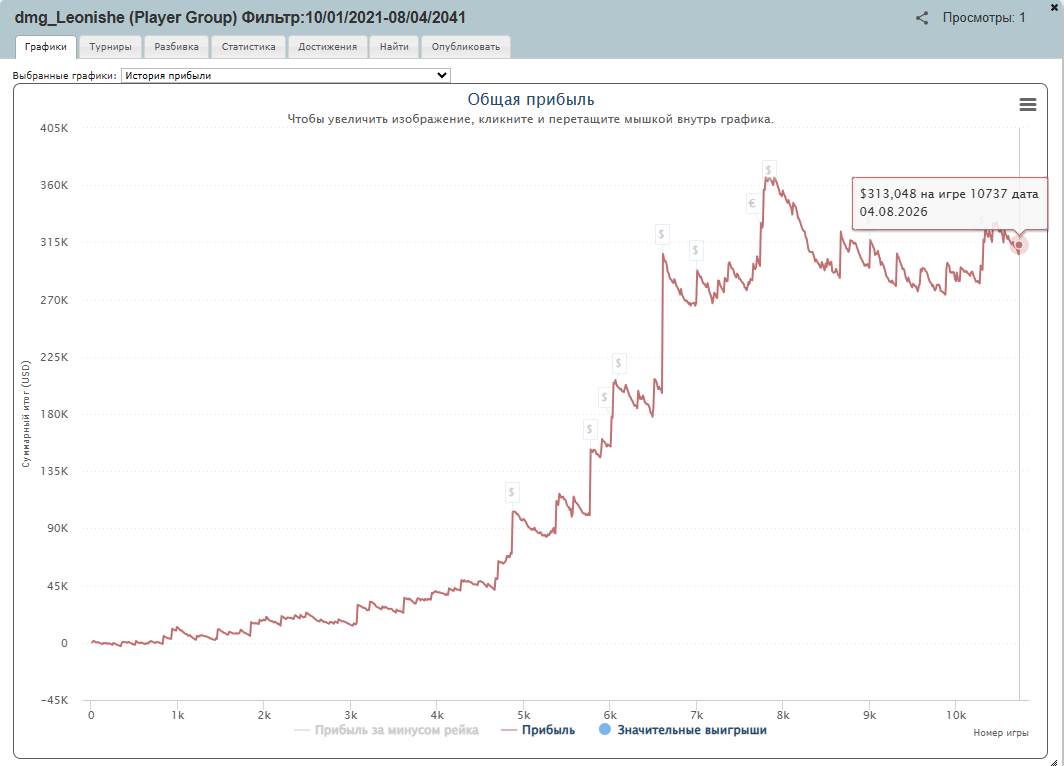
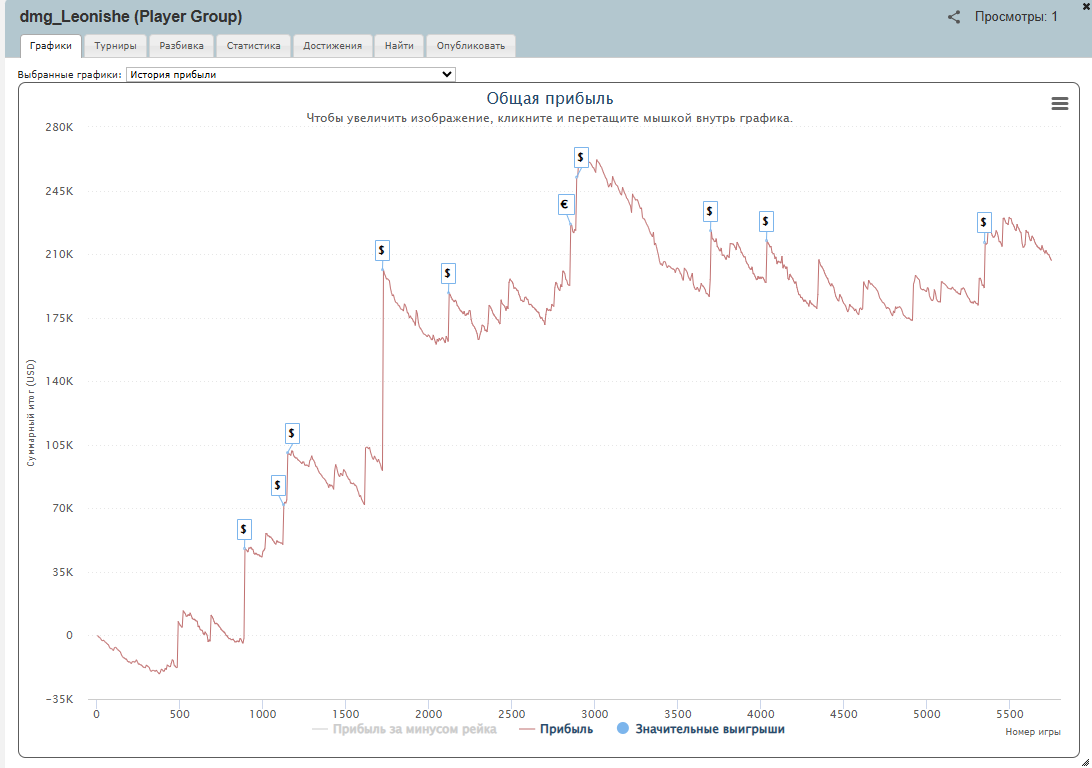
Add files via upload

diff --git a/club/index.html b/club/index.html
@@ -526,6 +526,13 @@ html{scrollbar-color:#3a332c var(--ink);scrollbar-width:auto}
 .get p{font-size:.89rem;color:var(--cream-dim);margin:0}
 
 [id]{scroll-margin-top:84px}
+
+/* ---------- воздух под последним блоком (панель браузера на телефоне) ---------- */
+body{padding-bottom:clamp(2.5rem,8vw,4rem)}
+@media(max-width:700px){body{padding-bottom:6rem}}
+/* коробка без скидки не должна выглядеть пустым полем ввода */
+.tier-next.flat,.tier-next.plain{border-color:var(--line)}
+.tier-next.plain i{color:#6f6a62}
 </style>
 <script>document.documentElement.className+=" js"</script>
 </head>
@@ -609,7 +616,7 @@ html{scrollbar-color:#3a332c var(--ink);scrollbar-width:auto}
       <div class="tier-nm">Base</div>
       <div class="tier-for">Если только выстраиваешь свою игру и учишься сам.</div>
       <div class="tier-pr"><b id="b-mo">$35</b><span>в месяц</span></div>
-      <div class="tier-next" id="b-total"><i>оплата помесячно</i></div>
+      <div class="tier-next plain" id="b-total"><i>оплата помесячно</i></div>
       <ul class="ticks">
         <li>Чат комьюнити</li>
         <li>Видео по основам покера</li>
@@ -624,7 +631,7 @@ html{scrollbar-color:#3a332c var(--ink);scrollbar-width:auto}
       <div class="tier-nm">Pro</div>
       <div class="tier-for">Если играешь регулярно и работаешь над игрой всерьёз.</div>
       <div class="tier-pr"><b id="p-mo">$100</b><span>в месяц</span></div>
-      <div class="tier-next" id="p-total"><i>оплата помесячно</i></div>
+      <div class="tier-next plain" id="p-total"><i>оплата помесячно</i></div>
       <ul class="ticks">
         <li>Всё из Base</li>
         <li>Закрытые стримы работы над игрой</li>
@@ -639,7 +646,7 @@ html{scrollbar-color:#3a332c var(--ink);scrollbar-width:auto}
       <div class="tier-nm">VIP</div>
       <div class="tier-for">Если хочешь работать со мной напрямую.</div>
       <div class="tier-pr"><b id="v-mo">$500</b><span>в месяц</span></div>
-      <div class="tier-next" id="v-total"><i>оплата помесячно</i></div>
+      <div class="tier-next plain" id="v-total"><i>оплата помесячно</i></div>
       <ul class="ticks">
         <li>Всё из Pro</li>
         <li>Разбор базы</li>
@@ -742,7 +749,9 @@ html{scrollbar-color:#3a332c var(--ink);scrollbar-width:auto}
     Object.keys(base).forEach(function(k){
       var mo = Math.round(base[k] * (1 - off / 100));
       document.getElementById(k + '-mo').textContent = money(mo);
-      document.getElementById(k + '-total').innerHTML = months === 1
+      var box = document.getElementById(k + '-total');
+      box.classList.toggle('plain', months === 1);
+      box.innerHTML = months === 1
         ? '<i>оплата помесячно</i>'
         : '<i>' + months + ' мес</i><b>' + money(mo * months) + '</b>';
       document.getElementById(k + '-cta').href =

diff --git a/index.html b/index.html
@@ -4,7 +4,7 @@
 <meta charset="utf-8">
 <meta name="viewport" content="width=device-width, initial-scale=1">
 <title>EQLBM.CLUB — Безопасное пространство для развития покерной карьеры</title>
-<meta name="description" content="Комьюнити, которое помогает играть лучше. За твоё обучение платит рум. От тебя — регистрация в румах через EQLBM. Весь твой профит всегда остаётся твоим.">
+<meta name="description" content="Обучение как в школе покера: тренировки по темам, разбор твоей игры и стримы работы над игрой. Оплата — месячная подписка, весь профит ты забираешь себе.">
 <link rel="icon" href="/assets/favicon.ico" sizes="any">
 <link rel="icon" type="image/png" sizes="32x32" href="/assets/favicon-32.png">
 <link rel="icon" type="image/png" sizes="16x16" href="/assets/favicon-16.png">
@@ -12,7 +12,7 @@
 <meta property="og:type" content="website">
 <meta property="og:site_name" content="EQLBM.CLUB">
 <meta property="og:title" content="EQLBM.CLUB — Безопасное пространство для развития покерной карьеры">
-<meta property="og:description" content="Комьюнити, которое помогает играть лучше. За твоё обучение платит рум. От тебя — регистрация в румах через EQLBM. Весь твой профит всегда остаётся твоим.">
+<meta property="og:description" content="Обучение как в школе покера: тренировки по темам, разбор твоей игры и стримы работы над игрой. Оплата — месячная подписка, весь профит ты забираешь себе.">
 <meta property="og:image" content="https://eqlbm.club/assets/og.png">
 <meta property="og:url" content="https://eqlbm.club/">
 <meta property="og:locale" content="ru_RU">
@@ -528,6 +528,13 @@ html{scrollbar-color:#3a332c var(--ink);scrollbar-width:auto}
 ::-webkit-scrollbar-track{background:var(--ink)}
 ::-webkit-scrollbar-thumb{background:#3a332c;border-radius:6px;border:3px solid var(--ink)}
 ::-webkit-scrollbar-thumb:hover{background:#5a5048}
+
+/* ---------- воздух под последним блоком (панель браузера на телефоне) ---------- */
+body{padding-bottom:clamp(2.5rem,8vw,4rem)}
+@media(max-width:700px){body{padding-bottom:6rem}}
+/* коробка без скидки не должна выглядеть пустым полем ввода */
+.tier-next.flat,.tier-next.plain{border-color:var(--line)}
+.tier-next.plain i{color:#6f6a62}
 </style>
 <script>document.documentElement.className+=" js"</script>
 </head>

diff --git a/rooms/acr/index.html b/rooms/acr/index.html
@@ -495,6 +495,13 @@ html{scrollbar-color:#3a332c var(--ink);scrollbar-width:auto}
 ::-webkit-scrollbar-track{background:var(--ink)}
 ::-webkit-scrollbar-thumb{background:#3a332c;border-radius:6px;border:3px solid var(--ink)}
 ::-webkit-scrollbar-thumb:hover{background:#5a5048}
+
+/* ---------- воздух под последним блоком (панель браузера на телефоне) ---------- */
+body{padding-bottom:clamp(2.5rem,8vw,4rem)}
+@media(max-width:700px){body{padding-bottom:6rem}}
+/* коробка без скидки не должна выглядеть пустым полем ввода */
+.tier-next.flat,.tier-next.plain{border-color:var(--line)}
+.tier-next.plain i{color:#6f6a62}
 </style>
 <script>document.documentElement.className+=" js"</script>
 </head>

diff --git a/rooms/bcpoker/index.html b/rooms/bcpoker/index.html
@@ -495,6 +495,13 @@ html{scrollbar-color:#3a332c var(--ink);scrollbar-width:auto}
 ::-webkit-scrollbar-track{background:var(--ink)}
 ::-webkit-scrollbar-thumb{background:#3a332c;border-radius:6px;border:3px solid var(--ink)}
 ::-webkit-scrollbar-thumb:hover{background:#5a5048}
+
+/* ---------- воздух под последним блоком (панель браузера на телефоне) ---------- */
+body{padding-bottom:clamp(2.5rem,8vw,4rem)}
+@media(max-width:700px){body{padding-bottom:6rem}}
+/* коробка без скидки не должна выглядеть пустым полем ввода */
+.tier-next.flat,.tier-next.plain{border-color:var(--line)}
+.tier-next.plain i{color:#6f6a62}
 </style>
 <script>document.documentElement.className+=" js"</script>
 </head>

diff --git a/rooms/betonline/index.html b/rooms/betonline/index.html
@@ -495,6 +495,13 @@ html{scrollbar-color:#3a332c var(--ink);scrollbar-width:auto}
 ::-webkit-scrollbar-track{background:var(--ink)}
 ::-webkit-scrollbar-thumb{background:#3a332c;border-radius:6px;border:3px solid var(--ink)}
 ::-webkit-scrollbar-thumb:hover{background:#5a5048}
+
+/* ---------- воздух под последним блоком (панель браузера на телефоне) ---------- */
+body{padding-bottom:clamp(2.5rem,8vw,4rem)}
+@media(max-width:700px){body{padding-bottom:6rem}}
+/* коробка без скидки не должна выглядеть пустым полем ввода */
+.tier-next.flat,.tier-next.plain{border-color:var(--line)}
+.tier-next.plain i{color:#6f6a62}
 </style>
 <script>document.documentElement.className+=" js"</script>
 </head>

diff --git a/rooms/blackchip/index.html b/rooms/blackchip/index.html
@@ -495,6 +495,13 @@ html{scrollbar-color:#3a332c var(--ink);scrollbar-width:auto}
 ::-webkit-scrollbar-track{background:var(--ink)}
 ::-webkit-scrollbar-thumb{background:#3a332c;border-radius:6px;border:3px solid var(--ink)}
 ::-webkit-scrollbar-thumb:hover{background:#5a5048}
+
+/* ---------- воздух под последним блоком (панель браузера на телефоне) ---------- */
+body{padding-bottom:clamp(2.5rem,8vw,4rem)}
+@media(max-width:700px){body{padding-bottom:6rem}}
+/* коробка без скидки не должна выглядеть пустым полем ввода */
+.tier-next.flat,.tier-next.plain{border-color:var(--line)}
+.tier-next.plain i{color:#6f6a62}
 </style>
 <script>document.documentElement.className+=" js"</script>
 </head>

diff --git a/rooms/champion/index.html b/rooms/champion/index.html
@@ -495,6 +495,13 @@ html{scrollbar-color:#3a332c var(--ink);scrollbar-width:auto}
 ::-webkit-scrollbar-track{background:var(--ink)}
 ::-webkit-scrollbar-thumb{background:#3a332c;border-radius:6px;border:3px solid var(--ink)}
 ::-webkit-scrollbar-thumb:hover{background:#5a5048}
+
+/* ---------- воздух под последним блоком (панель браузера на телефоне) ---------- */
+body{padding-bottom:clamp(2.5rem,8vw,4rem)}
+@media(max-width:700px){body{padding-bottom:6rem}}
+/* коробка без скидки не должна выглядеть пустым полем ввода */
+.tier-next.flat,.tier-next.plain{border-color:var(--line)}
+.tier-next.plain i{color:#6f6a62}
 </style>
 <script>document.documentElement.className+=" js"</script>
 </head>

diff --git a/rooms/coinpoker/index.html b/rooms/coinpoker/index.html
@@ -495,6 +495,13 @@ html{scrollbar-color:#3a332c var(--ink);scrollbar-width:auto}
 ::-webkit-scrollbar-track{background:var(--ink)}
 ::-webkit-scrollbar-thumb{background:#3a332c;border-radius:6px;border:3px solid var(--ink)}
 ::-webkit-scrollbar-thumb:hover{background:#5a5048}
+
+/* ---------- воздух под последним блоком (панель браузера на телефоне) ---------- */
+body{padding-bottom:clamp(2.5rem,8vw,4rem)}
+@media(max-width:700px){body{padding-bottom:6rem}}
+/* коробка без скидки не должна выглядеть пустым полем ввода */
+.tier-next.flat,.tier-next.plain{border-color:var(--line)}
+.tier-next.plain i{color:#6f6a62}
 </style>
 <script>document.documentElement.className+=" js"</script>
 </head>

diff --git a/rooms/index.html b/rooms/index.html
@@ -495,6 +495,13 @@ html{scrollbar-color:#3a332c var(--ink);scrollbar-width:auto}
 ::-webkit-scrollbar-track{background:var(--ink)}
 ::-webkit-scrollbar-thumb{background:#3a332c;border-radius:6px;border:3px solid var(--ink)}
 ::-webkit-scrollbar-thumb:hover{background:#5a5048}
+
+/* ---------- воздух под последним блоком (панель браузера на телефоне) ---------- */
+body{padding-bottom:clamp(2.5rem,8vw,4rem)}
+@media(max-width:700px){body{padding-bottom:6rem}}
+/* коробка без скидки не должна выглядеть пустым полем ввода */
+.tier-next.flat,.tier-next.plain{border-color:var(--line)}
+.tier-next.plain i{color:#6f6a62}
 </style>
 <script>document.documentElement.className+=" js"</script>
 </head>

diff --git a/rooms/nexa/index.html b/rooms/nexa/index.html
@@ -495,6 +495,13 @@ html{scrollbar-color:#3a332c var(--ink);scrollbar-width:auto}
 ::-webkit-scrollbar-track{background:var(--ink)}
 ::-webkit-scrollbar-thumb{background:#3a332c;border-radius:6px;border:3px solid var(--ink)}
 ::-webkit-scrollbar-thumb:hover{background:#5a5048}
+
+/* ---------- воздух под последним блоком (панель браузера на телефоне) ---------- */
+body{padding-bottom:clamp(2.5rem,8vw,4rem)}
+@media(max-width:700px){body{padding-bottom:6rem}}
+/* коробка без скидки не должна выглядеть пустым полем ввода */
+.tier-next.flat,.tier-next.plain{border-color:var(--line)}
+.tier-next.plain i{color:#6f6a62}
 </style>
 <script>document.documentElement.className+=" js"</script>
 </head>

diff --git a/rooms/pokerdom/index.html b/rooms/pokerdom/index.html
@@ -495,6 +495,13 @@ html{scrollbar-color:#3a332c var(--ink);scrollbar-width:auto}
 ::-webkit-scrollbar-track{background:var(--ink)}
 ::-webkit-scrollbar-thumb{background:#3a332c;border-radius:6px;border:3px solid var(--ink)}
 ::-webkit-scrollbar-thumb:hover{background:#5a5048}
+
+/* ---------- воздух под последним блоком (панель браузера на телефоне) ---------- */
+body{padding-bottom:clamp(2.5rem,8vw,4rem)}
+@media(max-width:700px){body{padding-bottom:6rem}}
+/* коробка без скидки не должна выглядеть пустым полем ввода */
+.tier-next.flat,.tier-next.plain{border-color:var(--line)}
+.tier-next.plain i{color:#6f6a62}
 </style>
 <script>document.documentElement.className+=" js"</script>
 </head>

diff --git a/rooms/pokerking/index.html b/rooms/pokerking/index.html
@@ -495,6 +495,13 @@ html{scrollbar-color:#3a332c var(--ink);scrollbar-width:auto}
 ::-webkit-scrollbar-track{background:var(--ink)}
 ::-webkit-scrollbar-thumb{background:#3a332c;border-radius:6px;border:3px solid var(--ink)}
 ::-webkit-scrollbar-thumb:hover{background:#5a5048}
+
+/* ---------- воздух под последним блоком (панель браузера на телефоне) ---------- */
+body{padding-bottom:clamp(2.5rem,8vw,4rem)}
+@media(max-width:700px){body{padding-bottom:6rem}}
+/* коробка без скидки не должна выглядеть пустым полем ввода */
+.tier-next.flat,.tier-next.plain{border-color:var(--line)}
+.tier-next.plain i{color:#6f6a62}
 </style>
 <script>document.documentElement.className+=" js"</script>
 </head>
